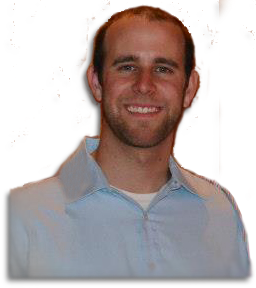
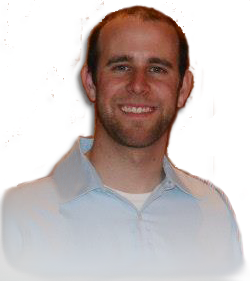
fix my pic

diff --git a/templates/about.html b/templates/about.html
@@ -1,6 +1,6 @@
 <h2>About</h2>
 <div class="wrapper">
-	<img class="my-pic" src="img/me-2.png" />
+	<img class="my-pic" src="img/me.png" />
 	<p>Jim Hooper is an Austin-based web developer, with a keen eye for business and entrepreneurship. An avid problem-solver and astute learner, Jim enjoys a challenge. He is a multi-faceted individual—a self-taught guitar player, adventurer, scuba-diver and runner.
 	</p>
 	<a href="lib/resume.pdf" class="resume-btn">View Resume</a>
